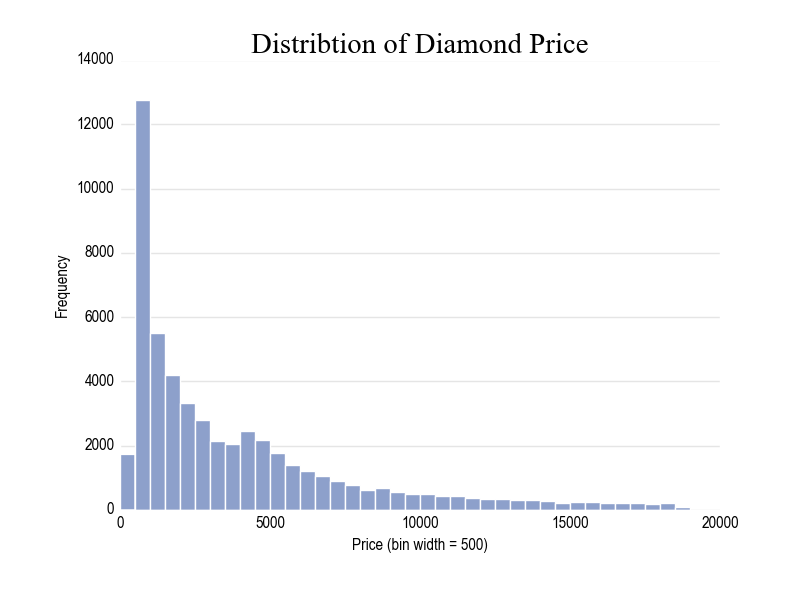
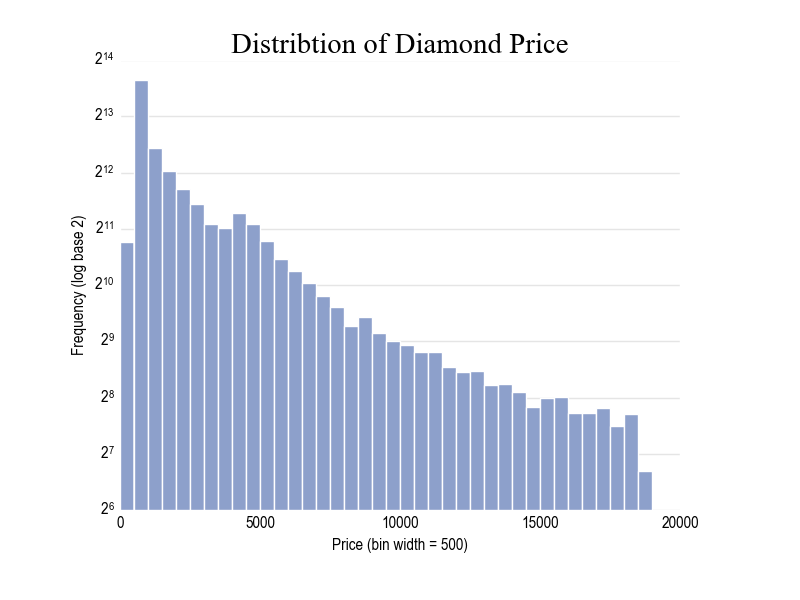
updated examples

diff --git a/examples/diamonds/bar_2.py b/examples/diamonds/bar_2.py
@@ -1,0 +1,23 @@
+import numpy as np
+import pandas as pd
+
+import matplotlib
+import matplotlib.pyplot as plt
+
+import mmviz
+
+matplotlib.style.use("mmviz")
+
+df = pd.read_csv("../data/diamonds.csv")
+df1 = df.groupby('clarity').size()
+df1.sort_values(ascending=True, inplace=True)
+
+ax = df1.plot.barh(rot=0)
+ax.set_title("Diamonds by Clarity")
+mmviz.theme_mm(ax, "bar-horizontal")
+
+plt.xlabel("Clarity")
+plt.ylabel("Frequency")
+
+plt.savefig("./images/bar", dpi=100)
+plt.show()

diff --git a/examples/diamonds/bar_1.py b/examples/diamonds/bar_1.py
@@ -8,6 +8,8 @@ import mmviz
 
 matplotlib.style.use("mmviz")
 
+mmviz.scale_palette_mm("qual_fill")
+
 df = pd.read_csv("../data/diamonds.csv")
 df1 = df.groupby(['clarity', 'cut'])['price'].count().reset_index().pivot(index='clarity', columns='cut', values="price")
 
@@ -18,7 +20,7 @@ mmviz.theme_mm(ax, "bar")
 plt.xlabel("Clarity")
 plt.ylabel("Frequency")
 
-mmviz.place_legend(plt, "Cut", 0.2)
+mmviz.place_legend(plt, "Cut")
 
 plt.savefig("./images/bar_1", dpi=100)
 plt.show()

diff --git a/examples/standard/series.py b/examples/standard/series.py
@@ -7,11 +7,8 @@ import matplotlib.pyplot as plt
 import mmviz
 
 matplotlib.style.use("mmviz")
-mmviz.scale_color_mm()
 
-# ts = pd.Series(np.random.randn(1000), index=pd.date_range('1/1/2000', periods=1000))
-# ts = np.exp(ts.cumsum())
-# ax = ts.plot(logy=True)
+mmviz.scale_palette_mm("qual_color")
 
 df = pd.DataFrame(np.random.randn(1000, 4), index=pd.date_range('1/1/2000', periods=1000), columns=list('ABCD'))
 df = df.cumsum()

diff --git a/examples/diamonds/histogram.py b/examples/diamonds/histogram.py
@@ -14,8 +14,10 @@ bins = mmviz.create_bin_list(df['price'], 500)
 
 ax = df["price"].plot.hist(bins=bins)
 ax.set_title("Distribtion of Diamond Price")
+ax.set_yscale("log", basey=2)
 mmviz.theme_mm(ax, "histogram")
 
+plt.ylabel("Frequency (log base 2)")
 plt.xlabel("Price (bin width = 500)")
 
 plt.savefig("./images/histogram", dpi=100)

diff --git a/examples/diamonds/histogram_1.py b/examples/diamonds/histogram_1.py
@@ -8,6 +8,8 @@ import mmviz
 
 matplotlib.style.use("mmviz")
 
+mmviz.scale_palette_mm("qual_fill")
+
 df = pd.read_csv("../data/diamonds.csv")
 
 bin_width = 500
